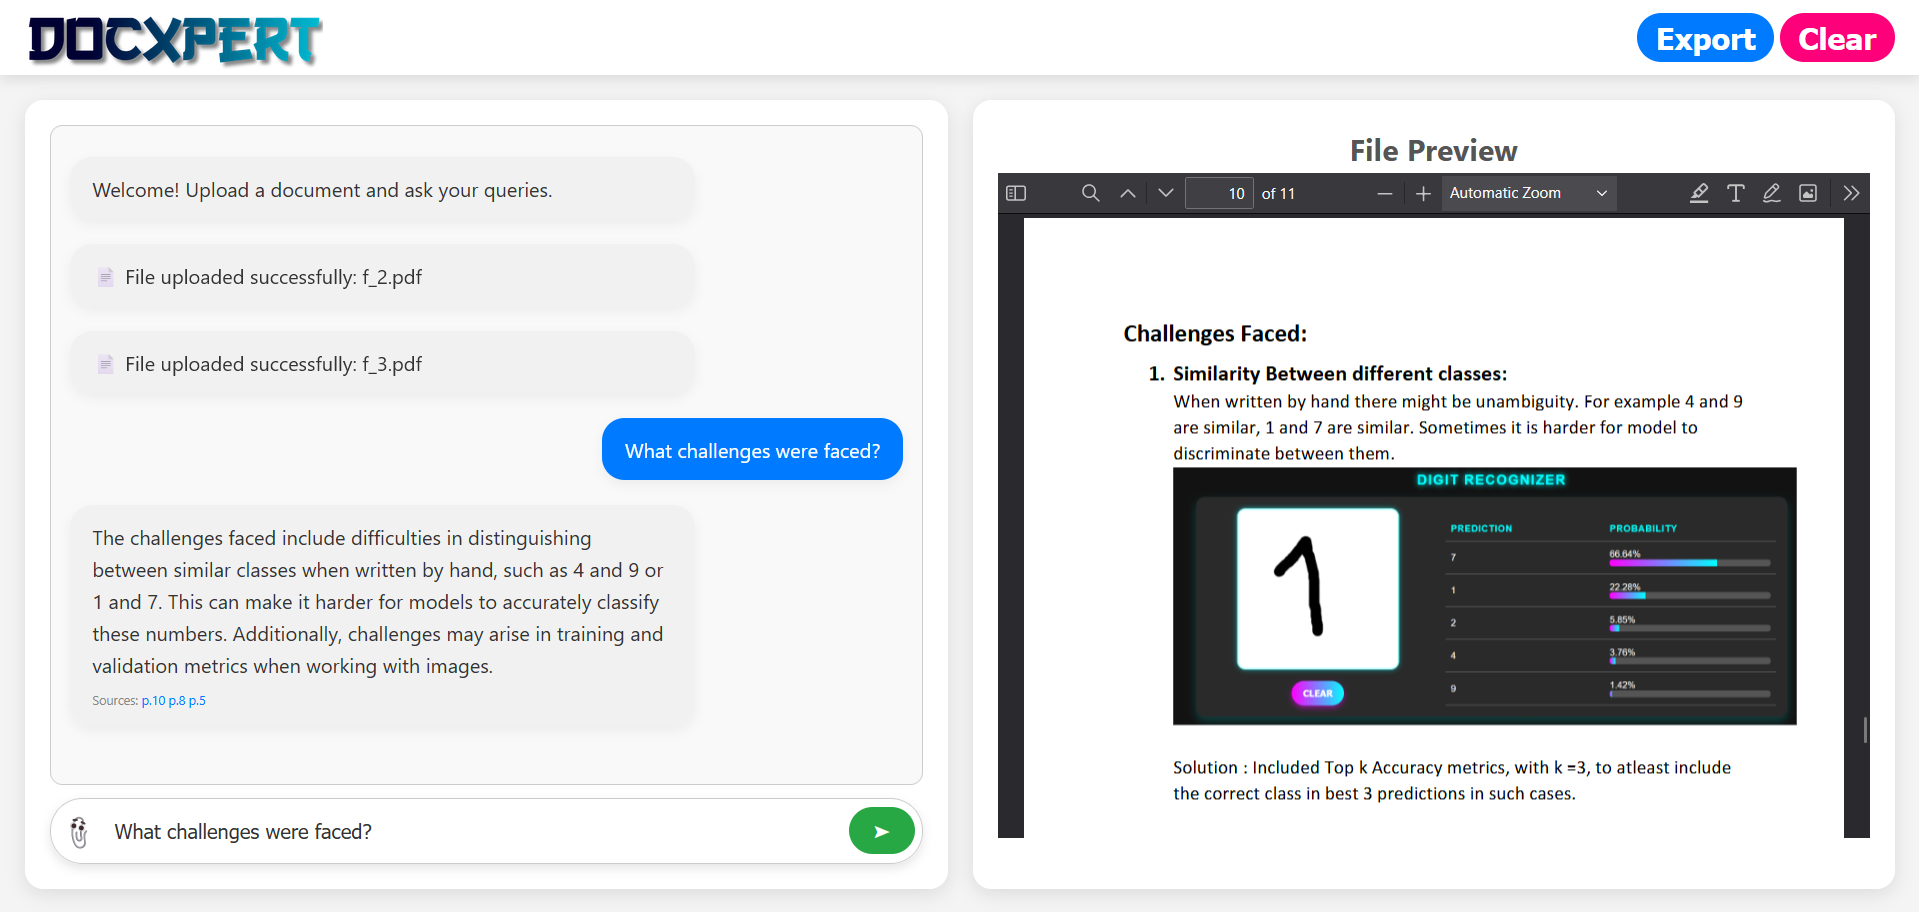
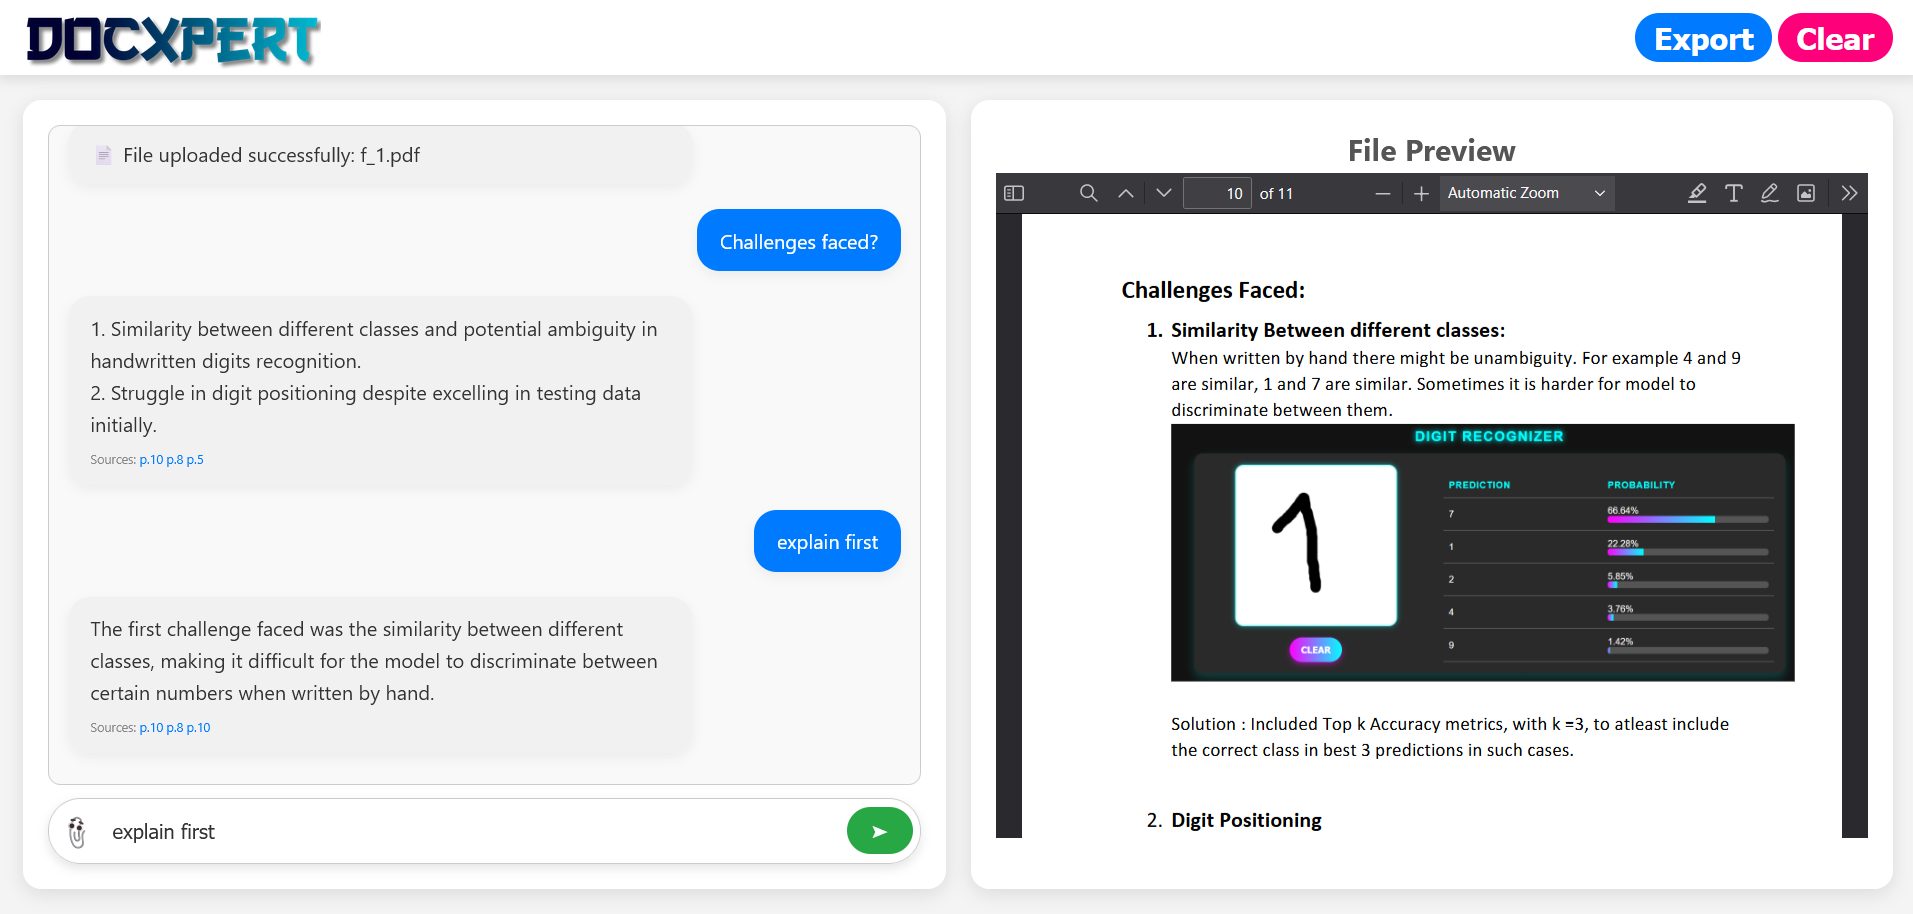
minor fixes

diff --git a/static/script.js b/static/script.js
@@ -88,7 +88,7 @@ document.addEventListener('DOMContentLoaded', async () => {
             localStorage.setItem('db_name', dbName);
 
             navToPage('p.1');
-            appendMessage(`📄 File uploaded successfully: ${dbName}`, 'bot');
+            appendMessage(`📄 File uploaded successfully`, 'bot');
         } else {
             appendMessage(`❌ Error: ${result.error}`, 'bot');
         }

diff --git a/util.py b/util.py
@@ -40,7 +40,7 @@ def load_document(file_path):
 
 
 def split_text(documents: list[Document]):
-    text_splitter = RecursiveCharacterTextSplitter(chunk_size=300, chunk_overlap=100, length_function=len, add_start_index=True)
+    text_splitter = RecursiveCharacterTextSplitter(chunk_size=500, chunk_overlap=150, length_function=len, add_start_index=True)
     chunks = text_splitter.split_documents(documents)
     return chunks
 
@@ -70,6 +70,7 @@ def search(query, db_path):
     embedding_function = OpenAIEmbeddings()
     
     if not os.path.exists(db_dir):
+        print("lol:", db_dir)
         return []
 
     db = Chroma(persist_directory=db_dir, embedding_function=embedding_function)
@@ -95,7 +96,7 @@ Answer the question based on the above context: {question}
 def query_rag(query_text, db_name):
     results = search(query_text, db_name)
 
-    if len(results) == 0 or results[0][1] < 0.7:
+    if len(results) == 0 or results[0][1] < 0.4:
         return "No relevant information found.", []
 
     context_text = "\n\n - -\n\n".join([doc.page_content for doc, _ in results])
@@ -116,10 +117,25 @@ You are an RAG prompt generator.
 Read the chat history and users query and modify the user query to include relevant context from the chat history.
 Your response should be as small as possible but shouldnt have any missing context.
 
+You are a RAG Prompt Generator.
+You are given a Chat History and a User Query. Your task is to convert User Query into Cntext Aware Query by filling out references from previous history.
+This Context Aware Query should be understandable without chat history.
+Keep it simple, short and similar to user query, remove any stopping word.
+
+Example:
+    Chat History:
+    User: Who all were the part of this project?
+    Bot: John Doe and Jane Foster.
+    
+    User Query: Tell me more about them?
+
+    Context Aware Query: about John Doe and Jane Foster
+    
+
 Chat History:
 {history}
 
-Current Query:
+User Query:
 {query}
 
 Context Aware Query:

diff --git a/app.py b/app.py
@@ -20,7 +20,6 @@ def index():
 
 @app.route('/check_db/<db_name>', methods=['GET'])
 def check_db(db_name):
-    print(chat_history.keys(), db_name)
     if db_name in chat_history.keys():
         return jsonify({'exists': True}), 200
     else:
@@ -87,6 +86,9 @@ def query():
 
     try:
         response, sources_with_pages = util.query_rag(cont_aware_query, db_name)
+        if sources_with_pages == []:
+            response, sources_with_pages = util.query_rag(query_text, db_name)
+        
 
         chat_history[db_name].append((query_text, response))
 
